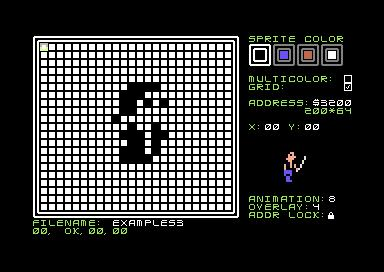
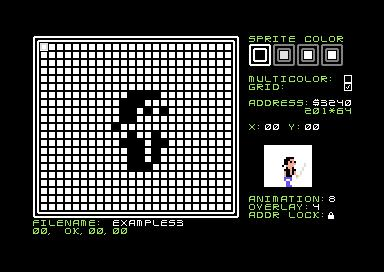
add adjustable background for small preview; update readme.md

diff --git a/README.md b/README.md
@@ -10,8 +10,9 @@ Sprite Studio 64 is native sprite editor for Commodore 64 computer.
 It is made with simplicity and minimalism.
 Sprite Studio 64 can edit simultaneously 64 sprites - only 64 but it has also some tools for animating them and sprite overlay.
 It can save your work on diskette in PRG file - this files can be loaded by basic LOAD command or be embedded in assembly source code.
-## Disclaimer
-Music used in this program is not mine - it was taken from https://www.hvsc.c64.org/ and its author is Raik Picheta.
+## Disclaimer / Additional credits
+Music used in this program is not mine - it was taken from https://www.hvsc.c64.org/ and its author is **Raik Picheta (Eco)**.
+Thanks to scener **Soci** for patch fixing program to doesn't use fixed 8 device number in loading/saving routines.
 ## Short instruction / Keyboard shortcuts
 *IF YOU ARE USING EMULATOR THERE IS BETTER TO USE POSITIONAL THEN SYMBOLIC KEYBOARD.*
 ### DRAWING
@@ -50,7 +51,6 @@ Music used in this program is not mine - it was taken from https://www.hvsc.c64.
 ### MISC
 * **[CBM+Q]** - exit from program and return to BASIC
 * **[G]** - switch on/off the grid mode
-* **[E]** - switch different (brown or default black) color of overall screen background
 ## Building from source instructions
 For building from source, you can use shipped make.bat batch file, but you will need following tools somewhere in PATH environment variable:
 * **TMPx** assembler.
